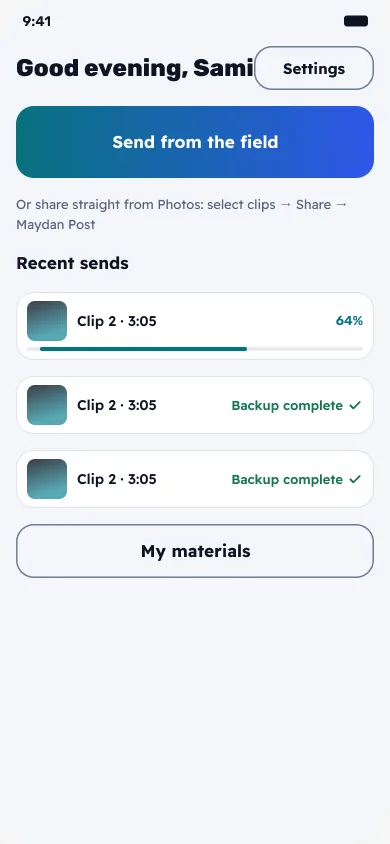
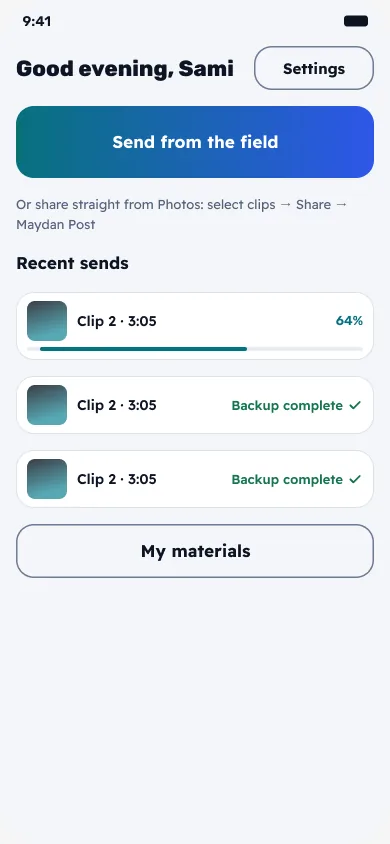
design: web on phone and tablet, empty/loading/error states; no sensitive downloads on mobile (#457)
Claude-Session: https://claude.ai/code/session_01RPX5cCnPujzrTHakZJduqU

Changed region(s): [[0.0308, 0.0616, 0.6462, 0.1232]]

diff --git a/docs/design/specs/web-v2.md b/docs/design/specs/web-v2.md
@@ -1,8 +1,8 @@
 # واجهات الويب v2 — غرفة الأخبار والمكتب والمتجر والإدارة
 
 **المرجع:** ملف Figma «Visual Library — Design System»، الصفحات `Web: Newsroom & Desk` و`Web: Store` و`Web: Admin`
-و`Web: Sign-in & Public` (الرابط في `design-system-v2.md`). مبنية من مكوّنات v2 ومتغيّراتها
-(`design-system-v2.md`)، ولقطاتها في `docs/design/redesign-2026-11/screens/web/`. سطح المكتب 1440×900، والجدار
+و`Web: Sign-in & Public` و`Web: Responsive & States` (الرابط في `design-system-v2.md`). مبنية من مكوّنات v2 ومتغيّراتها
+(`design-system-v2.md`)، ولقطاتها في `docs/design/redesign-2026-11/screens/web/`. سطح المكتب 1440×900، والجوال 390×844، والتابلت 1024×768، والجدار
 1920×1080. الوجه الداكن للمتجر والجدار بوضع `Dark` المضبوط صراحةً على الإطار، لا بألوان منسوخة.
 
 هذه الوثيقة تجرد الشاشات وقواعدها. لا تغيّر نطاق المرحلة: المحرر والنشر المباشر لمرحلة «مكتب المحرر»
@@ -26,7 +26,7 @@
 | الرمز | الشاشة | القواعد |
 |---|---|---|
 | W1 | الوارد | تصفية بالنوع والمحافظة واليوم؛ العاجل أولًا؛ الحالات الثلاث (فنية، تحريرية، حقوق) شارات منفصلة |
-| W2 | تفاصيل المادة | المشغّل والوسوم والحساسية؛ المكان المحافظة والمدينة فقط (حقلا العقد `governorate` و`city`) |
+| W2 | تفاصيل المادة | المشغّل والوسوم والحساسية؛ المكان: المحافظة والمدينة فقط (حقلا العقد `governorate` و`city`) |
 | W3 | التكليف | حوار فوق الوارد |
 | W4 | الجدار (1920×1080، داكن) | للشاشة الكبيرة في الغرفة |
 | W5–W6 | المهام والمهمة | الموعد والمكلَّف والتأخّر |
@@ -48,6 +48,44 @@
 | P3 | ترخيص غير موجود | `404` يقول السبب المحتمل؛ والصفحة محدودة المعدل (`429`) حمايةً للأرقام من التعداد |
 
 لا صفحة عامة للتحقّق من **إيصالات** الاستلام: أرقامها متسلسلة (`R-NNNNNN-NNNNNN`)، فصفحة تعرض وقت كل إيصال وحجمه تكشف جدول نشاط المراسلين لمن يعدّد. الإيصال يصل المراسل وحده (الخطة: إيصال استلام).
+
+## الجوال والتابلت (صفحة Figma `Web: Responsive & States`)
+
+الويب نفسه بثلاث نقاط توقّف، والمحتوى والصلاحيات واحدة. اللقطات `screens/web/m*.webp` و`t1-*.webp`. النقاط والهوامش هي شبكة `design-system.md` نفسها (جوال دون 768، لوح 768–1199، مكتب من 1200؛ هوامش 16 و24 و32)، والتنقّل وحده جديد: **لشاشات v2 يحلّ شريط الأيقونات في 768–1199 محلّ قاعدة `editor.md`** (الشريط 240 يختفي دون 1000 ويصير قائمة علوية).
+
+| النقطة | العرض | التنقّل | القاعدة |
+|---|---|---|---|
+| جوال | أقل من 768 (الإطارات 390) | شريط سفلي بخمس وجهات: الوارد · المهام · الأرشيف · التنبيهات · المزيد؛ وشريط علوي بالعنوان والبحث والجرس | عمود واحد؛ كل هدف ≥ 44؛ الفعل الأساسي في أسفل الشاشة في متناول الإبهام |
+| تابلت | 768–1199 (الإطار 1024) | شريط أيقونات جانبي بعرض 76 وتسميات قصيرة | صفوف الوارد كاملة، وأفعالها بارتفاع 44 لأن الجهاز لمسي؛ لا لوحة تفاصيل جانبية |
+| سطح مكتب | 1200 فأكثر | الشريط الجانبي الكامل (240) | الشاشات W وS وA وP أعلاه |
+
+**قالبا المتجر والمال على الجوال:** M1–M3 قالب غرفة الأخبار (شريط علوي بالعنوان والبحث والجرس، وشريط سفلي بخمس وجهات). M4 قالب **المشتري**، فلا يملك وجهات غرفة الأخبار: شريط علوي بالعلامة والسلة والحساب، بلا شريط سفلي. M5 شاشة للمدير تُبلَغ من «المزيد»، فيبقى الشريط السفلي ووجهة «المزيد» نشطة.
+
+| الرمز | الشاشة | القاعدة |
+|---|---|---|
+| M1 | الوارد (جوال) | بطاقة لكل مادة: صورة مصغّرة، والعنوان على سطرين، ثم سطر الوقت والمراسل والمحافظة؛ العاجل حدّ وشارة وكلمة؛ زرّ «حوّل» بكلمته (≥ 44)؛ مرشّحا المحافظة والتاريخ ومؤشّرات W1 خلف «تصفية» في الشريط العلوي |
+| M2 | تفاصيل المادة (جوال) | المشغّل 16:9، والحالات الثلاث منفصلة، وسطر الحساسية؛ في أسفل الشاشة «استلام» الفعل الأساسي (كالخطوة التالية في W2) و«حوّل للمونتير» ثانويًا |
+| M3 | مهامي (جوال) | المتأخر أولًا ثم الأقرب موعدًا؛ تنزيل الرشزات ورفع المادة متاحان، والمونتاج نفسه على الحاسوب. **المادة الحسّاسة** (شارة «حسّاسة») **لا تُنزَّل رشزاتها على تخطيط الجوال**: تُشاهَد بالبثّ وحده (المشغّل بلا رابط تنزيل مباشر ولا مشاركة)، وتُنزَّل من الحاسوب وحده بسجلّ تدقيق، وبطاقتها تقول ذلك مكان زرّ التنزيل. قاعدة مؤقتة من المنسّق، بانتظار تأكيد المالك |
+| M4 | المتجر (جوال، داكن) | بطاقة بعرض الشاشة، والمعاينة بعلامة مائية؛ الترخيص والشراء كما على الحاسوب |
+| M5 | المال (جوال) | جدول A4 يصير قائمة سجلّات: سطر للاسم والنصيب، وسطر للبيع والصافي والحالة، والمجموع في الأسفل؛ معادلة A4 بنصّها فوق القائمة. المبالغ المنفردة تحمل رمز العملة لأنها ليست أعمدة |
+| T1 | الوارد (تابلت) | شريط الأيقونات بدل الشريط الكامل، والصفوف كما على الحاسوب، وأفعالها بارتفاع 44 |
+
+**الحسّاس على الجوال والتابلت:** قاعدة M3 تسري على تخطيطَي الجوال والتابلت معًا، ومنها شاشة مهام التابلت حين تُرسم. رشزات المادة الحسّاسة تُشاهَد بالبثّ ولا تُنزَّل، والتنزيل من سطح المكتب وحده بسجلّ تدقيق.
+
+## الحالات: الفراغ والتحميل والخطأ
+
+رُسمت الحالات لهذه الشاشات، وكل شاشة قائمة أخرى تتبع النمط نفسه (اللقطات `screens/web/e*.webp`). وخطأ الخادم (5xx) وصفحة «غير موجودة» (404) بالنمط نفسه، ولم يُرسما بعد. النمط: أيقونة في دائرة، وعنوان يقول ما يحدث، وجملة تقول السبب والخطوة التالية، وفعل واحد أو اثنان. لا شاشة بيضاء، ولا «حدث خطأ» بلا سبب.
+
+| الرمز | الحالة | القاعدة |
+|---|---|---|
+| E1 | الوارد فارغ | يقول متى تصل المواد ومتى وصلت آخر واحدة؛ وعدّاد الشريط الجانبي يختفي |
+| E2 | التحميل | هياكل بشكل الصفوف الحقيقية، بلا دوّارة؛ ومع «تقليل الحركة» بلا وميض |
+| E3 | انقطاع الاتصال | لافتة تقول إن المحاولة تتكرّر تلقائيًا، وزرّ «أعد المحاولة الآن»؛ آخر بيانات معروضة كما هي، بلا بهتان يُنزل تباين نصّها عمّا في W1، ومعها وقت آخر تحديث، **وأفعالها معطّلة** (باهتة، والتعطيل يُعفى من شرط التباين) حتى يعود الاتصال (الكتابة بعده بـ `Idempotency-Key`) |
+| E4 | بحث بلا نتائج | المرشّحات النشطة رقاقات قابلة للإزالة، و«امسح الكل»، واقتراح بعدد النتائج بلا مرشّحات |
+| E5 | لا صلاحية | يقول الدور وما يملكه؛ والشريط الجانبي لا يعرض ما لا يملكه الدور (المحرّر: غرفة الأخبار والأرشيف). «اطلب الوصول» **مقترح** خارج الخطة والعقد، يحتاج موافقة المنسّق قبل بنائه (ومعه حدّ طول للسبب وتهريبه وتحديد معدّل وسجل تدقيق) |
+| E6 | المتجر بلا نتائج | يقول لماذا (المواد تظهر بعد المراجعة واعتماد الحقوق)، و«أشعرني حين تصل» (البحث المحفوظ بتنبيه في الخطة)؛ الفعل الأساسي ذهبي ثابت كما في S1 وS3 |
+
+**الأزرار:** الفعل الأساسي في الويب «Solid» ثابت؛ التدرّج لزرّ الإرسال في تطبيق المراسل وأيقونته وحدهما (`design-system-v2.md`). وزرّا A1 «دعوة مستخدم» وA4 «صرف المحدّد» المدموجان بالتدرّج يُصحَّحان مع شاشات الإدارة في طلب لاحق.
 
 ## قواعد مشتركة
 

diff --git a/docs/plan/decisions/0085-visual-identity-v2.md b/docs/plan/decisions/0085-visual-identity-v2.md
@@ -24,4 +24,5 @@
 
 - فترة تعايش بين مجموعتي رموز في الويب؛ تُحذف القديمة حين لا يبقى مستهلك لها.
 - كل وصولية العقد الحالية (WCAG 2.1 AA، RTL أولًا) تبقى شرطًا على v2.
+- تنقّل الويب v2 بنقاط الشبكة القائمة (`design-system.md`): شريط سفلي دون 768، وشريط أيقونات في 768–1199، والشريط الكامل من 1200. وهذا يحلّ محلّ قاعدة `editor.md` (القائمة العلوية دون 1000) لشاشات v2، لأن اللوح لمسي في الغالب ويلزمه تنقّل ظاهر دائم لا قائمة علوية؛ التفصيل في `specs/web-v2.md` (إضافة 2026-11-02، تعديل بموافقة المنسّق عند الدمج).
 - تغيير القرار لاحقًا يكلّف إعادة الرموز والمكوّنات، لا البيانات ولا العقود.

diff --git a/docs/plan/decisions/0086-material-tags.md b/docs/plan/decisions/0086-material-tags.md
@@ -8,7 +8,7 @@
 
 ## السياق
 
-- تطبيق المراسل v2 («بوست ميدان»، `docs/design/specs/reporter-v2.md`) يجعل الوسوم إلزامية قبل الإرسال.
+- تطبيق المراسل v2 («ميدان بوست»، `docs/design/specs/reporter-v2.md`) يجعل الوسوم إلزامية قبل الإرسال.
 - العقد لا يحمل حقلًا لها. و`dynamic_fields` ليست بديلًا: يتحقق الخادم منها بمخطط النموذج ذي الإصدار، فلا يقبل مفتاحًا غير معلن، والوسم ليس حقلًا في نموذج ديناميكي بل صفة أرشفة لكل مادة.
 - العقد في v0.1 إضافي فقط (`contracts/CLAUDE.md` القاعدة 12): حقل إلزامي جديد في الطلب يكسر عملاء v0 القائمين.
 
